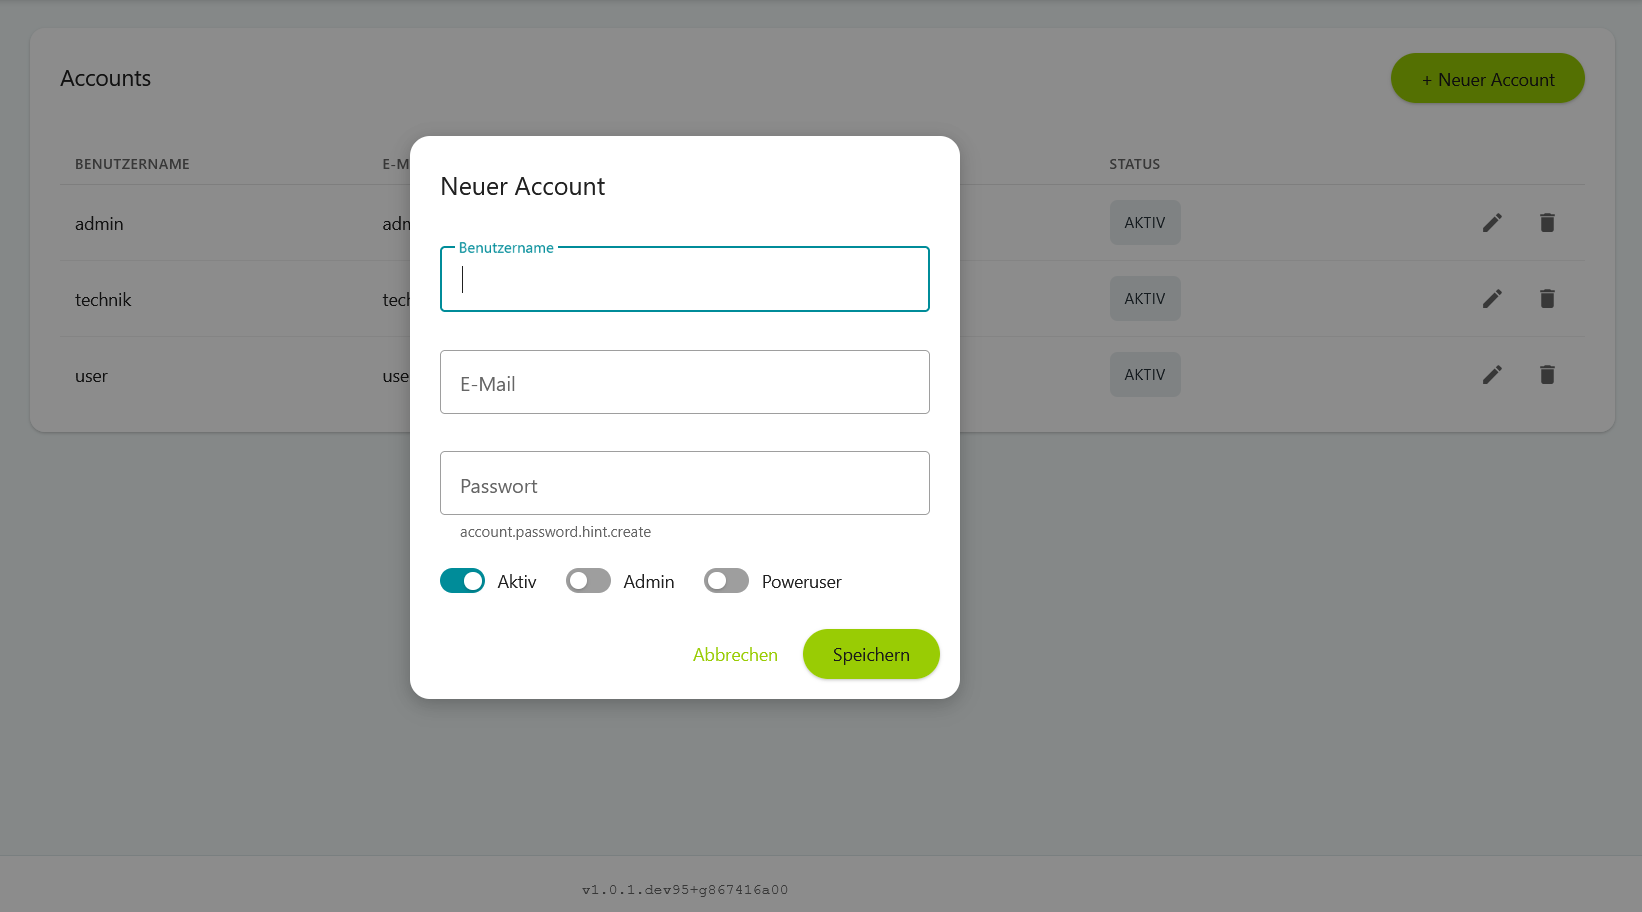
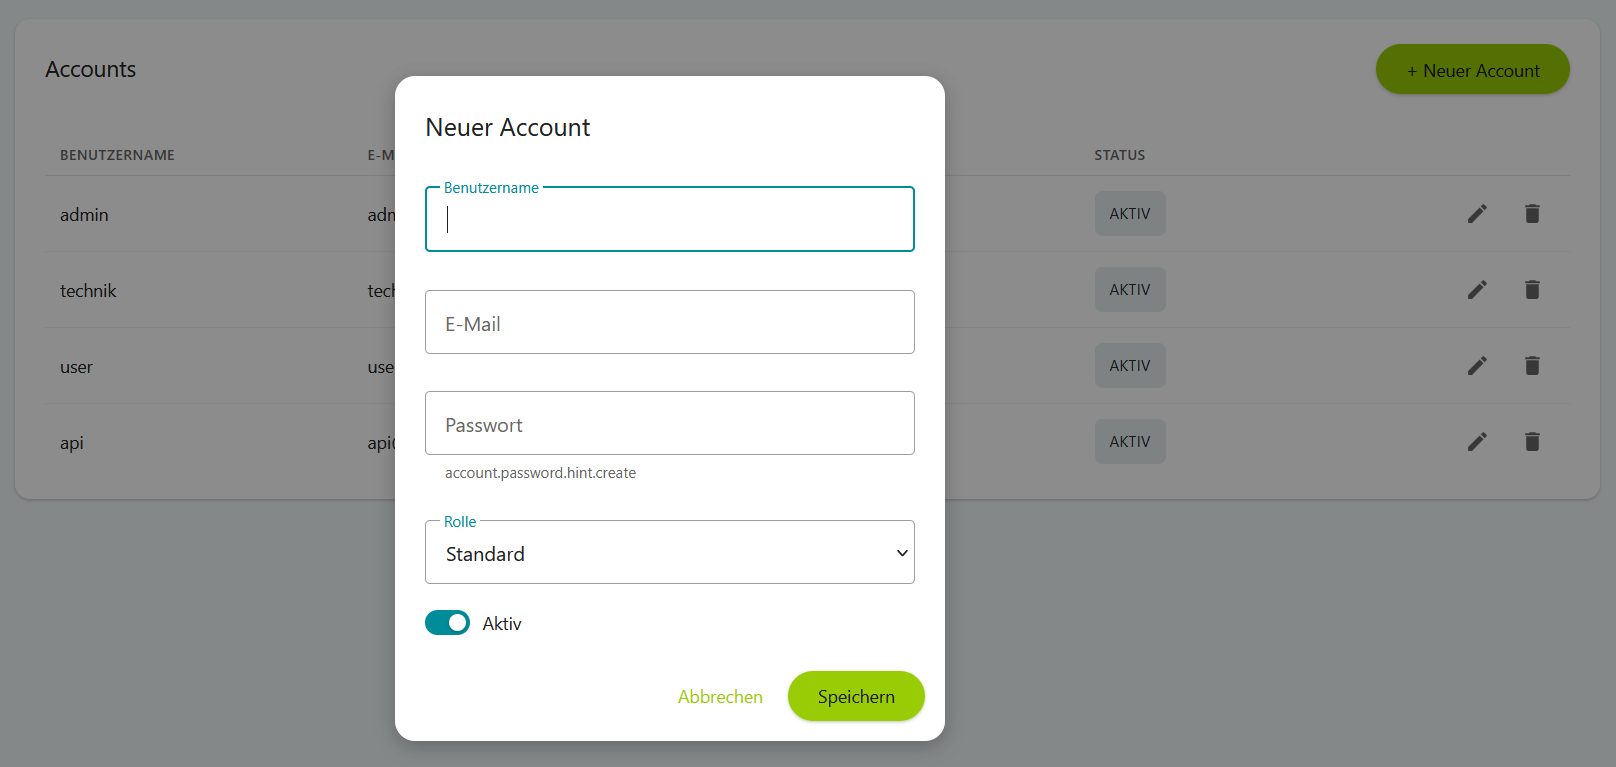
updated manual docs for latest changes

diff --git a/docs/manual/source/administration/echo-api.md b/docs/manual/source/administration/echo-api.md
@@ -1,0 +1,41 @@
+(h-echo-api-echo-api)=
+
+# Echo API
+
+Um EchoGTFS mit externen Tools und Erweiterungen überwachen und steuern zu können, bietet EchoGTFS eine dokumentierte und stabile Schnittstelle als JSON-basierte REST-API an. 
+
+## Funktionsumfang
+
+Die Echo-API bietet stets Zugriff auf den **aktuellen Systemzustand** über folgende Endpunkte:
+
+- `GET /api/monitoring/system`: Aktuell aktive Datenquellen und im Soll-Fahrplan importierte Linien zum Filtern der nachfolgenden beiden Endpunkte
+- `GET /api/monitoring/statistics`: Aktuelle KPIs bzw. Daten zur Berechnung von KPIs über den aktuellen Systemzustand
+- `GET /api/monitoring/conflicts`: Aktuell anliegende und erkannte Konflikte in den enthaltenen Daten
+- `POST /api/push/{data_source_id}`: Eventbasierte Ausführung von entsprechend Konfigurierten Datenquellen
+
+## Restriktionen
+
+Die Echo-API bringt folgende Restriktionen mit:
+
+- Es werden grundsätzlich keine historischen Zustände erhoben und ausgegeben. Die Echo-API bietet immer nur Zugriff auf den aktuellen Systemzustand.
+- Ob bestimmte Konflikte erkannt werden, hängt maßgeblich von den Einstellungen der Datenquellen ab:
+    - Wird beispielsweise eine Datenquelle mit der Verfahrensweise "ungültige Bezüge verwerfen" angelegt, werden ungültige Objekte oder Referenzen vollständig verworfen und tauchen entsprechend auch nicht als Konflikt auf.
+- Fehler in den Rohdaten werden derzeit nicht gesondert überwacht, ggf. werden Datenobjekte verworfen.
+- Die eventbasierte Ausführung von Datenquellen ist nur für entsprechend konfigurierte Datenquellen möglich. Der Payload wird dabei im Body des POST-Requests übergeben. Außerdem muss in den Einstellungen die Push-API aktiviert sein.
+- Bei der eventbasierten Ausführung von Datenquellen kann jede Datenquelle immer nur einmal gleichzeitig ausgeführt werden. Dadurch werden Interferenzen zwischen mehreren parallelen Durchläufen vermieden.
+
+## Technische Hinweise
+
+### Authentifizierung
+
+Der Zugriff auf die Echo-API ist nur mit Authentifizierung notwendig. Hierzu muss vorher in {ref}`h-accounts-accounts` ein User mit dem Recht "API" angelegt werden. Über diesen User kann dann die Authentifizierung erfolgen. Es wird dringend empfohlen für die Echo-API einen dedizierten User anzulegen, der bei Bedarf ohne Auswirkungen auf andere Accounts deaktiviert werden kann.
+
+Das entsprechend beim Login über den Login-Endpunkt erhaltene Token muss bei allen Requests über den Header `Authorization` mit dem Wert `Bearer {TOKEN}` mitgeschickt werden. Um das Token ohne neues Login erneuern zu können, liefern alle Antworten an die Echo-API den Header `X-New-Token` mit. In diesem Header befindet sich ein periodisch aktualisiertes Token, mit dem die Authentifizierung wahlweise nach Ablauf des initialen Tokens oder direkt beim nächsten Request erfolgen kann.
+
+### Swagger
+
+Die Echo-API ist auch als OpenAPI-Spezifikation und Swagger-UI verfügbar. Hierzu muss in den Umgebungsvariablen von EchoGTFS die Variable `DOCS_ENABLED` auf `true` gesetzt werden. Anschließend ist die Swagger-UI unter `/api/swagger` erreichbar und kann auch für einfache Tests genutzt werden.
+
+```{warning}
+Die Swagger-UI sollte in Produktivumgebungen immer deaktiviert sein, um Sicherheitsrisiken zu minimieren.
+```

diff --git a/docs/manual/source/administration/accounts.md b/docs/manual/source/administration/accounts.md
@@ -8,8 +8,9 @@ Zur Verwaltung der Accounts in EchoGTFS wechseln Sie über das Seitenmenü in de
 :name: img-accounts-accounts-overview-screen
 ```
 
-Jeder Account kann mit verschiedenen Rechten ausgestattet werden. Derzeit gibt es folgende Rechte:
+Jeder Account wird mit einer Rolle ausgestattet. Derzeit gibt es folgende Rollen:
 
+- **API**: Darf ausschließlich auf die Echo-API zugreifen. Kein Login in EchoGTFS möglich.
 - **Standard**: Darf in EchoGTFS Meldungen, Fahrten und Fahrzeuge sehen, sowie manuell Meldungen erfassen.
 - **Poweruser**: Darf zusätzlich Einstellungen an Datenquellen vornehmen.
 - **Admin**: Darf zusätzlich Systemeinstellungen und Accounts ändern.
@@ -26,7 +27,7 @@ Um einen neuen Account hinzuzufügen, klicken Sie auf den Button "Neuer Account"
 :name: img-accounts-accounts-new-account-screen
 ```
 
-Weisen Sie dem Account außerdem entsprechende Rechte zu und aktivieren Sie ihn.
+Weisen Sie dem Account außerdem die entsprechende Rolle zu und aktivieren Sie ihn.
 
 Bestätigen Sie den Dialog mit Klick auf "Speichern". Im Anschluss wird der neue Account in der Übersicht angezeigt und kann sofort verwendet werden.
 
@@ -40,7 +41,7 @@ Um einen bestehenden Account zu bearbeiten, klicken Sie in der entsprechenden Ze
 :name: img-accounts-accounts-edit-account-screen
 ```
 
-Auf diesem Weg können Sie beispielsweise auch einen bestehenden Account **aktivieren oder deaktivieren**, **andere Rechte zuweisen** oder das **Passwort ändern**. Wenn das bestehende Passwort beibehalten werden soll, lassen Sie das Feld einfach leer.
+Auf diesem Weg können Sie beispielsweise auch einen bestehenden Account **aktivieren oder deaktivieren**, eine **andere Rolle zuweisen** oder das **Passwort ändern**. Wenn das bestehende Passwort beibehalten werden soll, lassen Sie das Feld einfach leer.
 
 (h-accounts-delete-account)=
 

diff --git a/docs/manual/source/quickstart/installation.md b/docs/manual/source/quickstart/installation.md
@@ -42,7 +42,7 @@ Kopieren Sie die Datei `.env.example` und benennen Sie diese um zu `.env`. Öffn
 - `SECRET_KEY`: 32-stelliger zufälliger Schlüssel zur Authentifizierung und Authentisierung im Frontend
 - `FIRST_SUPERUSER`, `FIRST_SUPERUSER_EMAIL`, `FIRST_SUPERUSER_PASSWORD`: Initiale Zugangsdaten, mit denen Sie sich erstmalig bei EchoGTFS anmelden
 
-- `DOCS_ENABLED`: Option, um den für den externen Zugriff vorgesehenen Anteil der API zu veröffentlichen. Weitere Informationen im Abschnitt {ref}`h-monitoring-api-monitoring-api`
+- `DOCS_ENABLED`: Option, um den für den externen Zugriff vorgesehenen Anteil der API zu veröffentlichen. Weitere Informationen im Abschnitt {ref}`h-echo-api-echo-api`
 
 ### Weitere Umgebungsvariablen
 

diff --git a/docs/manual/source/administration/index.md b/docs/manual/source/administration/index.md
@@ -6,6 +6,5 @@
 accounts
 system-settings
 system-copy
-monitoring-api
-push-api
+echo-api
 ```
